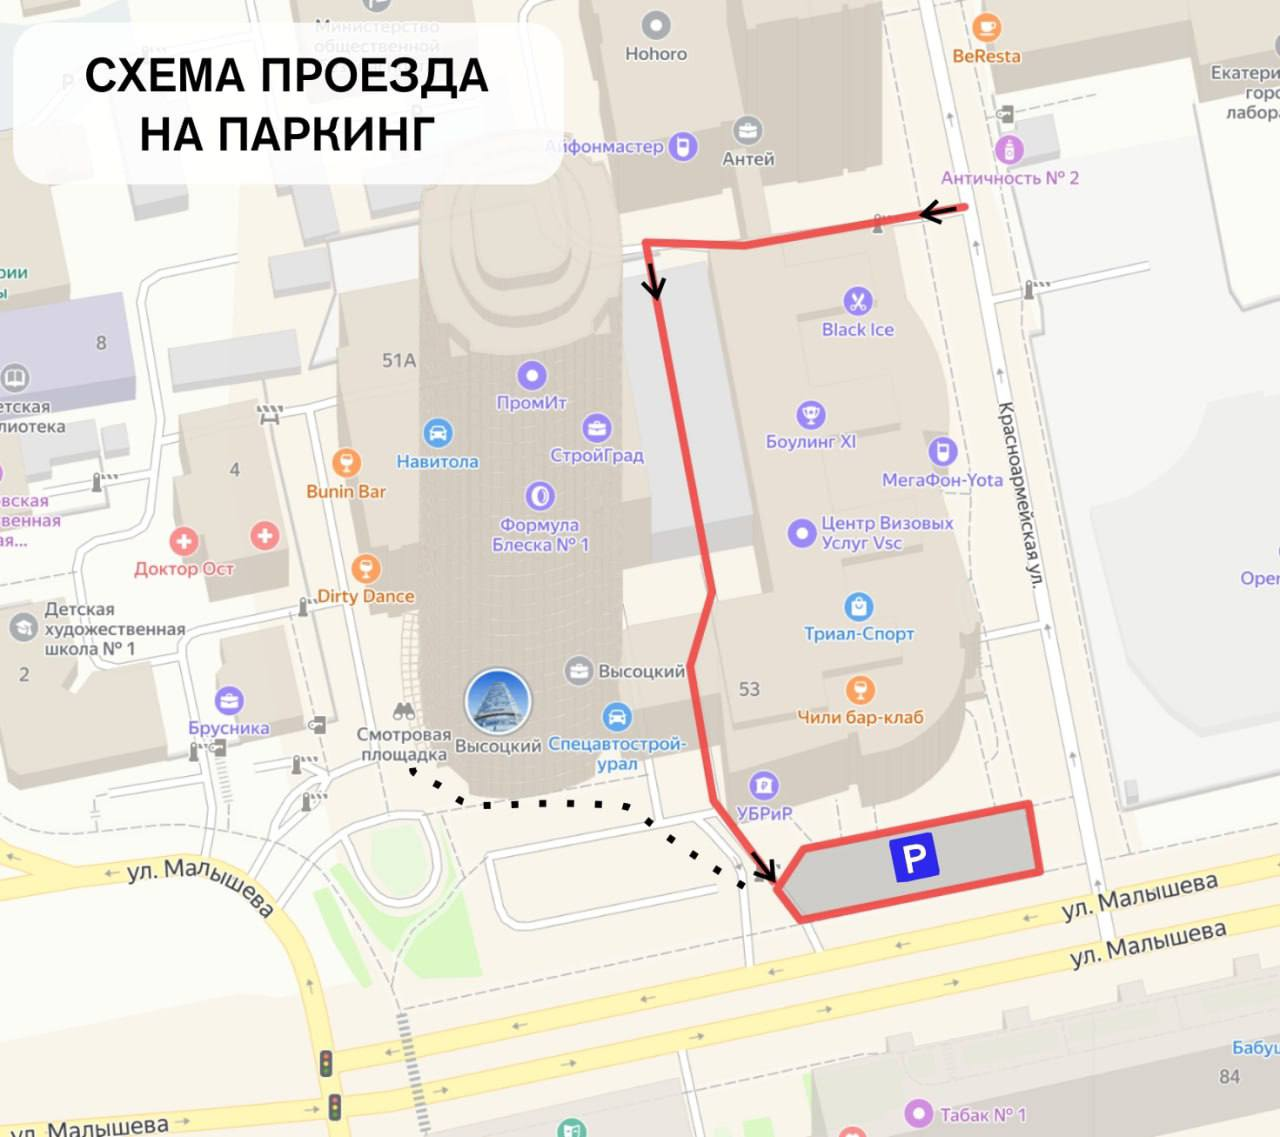
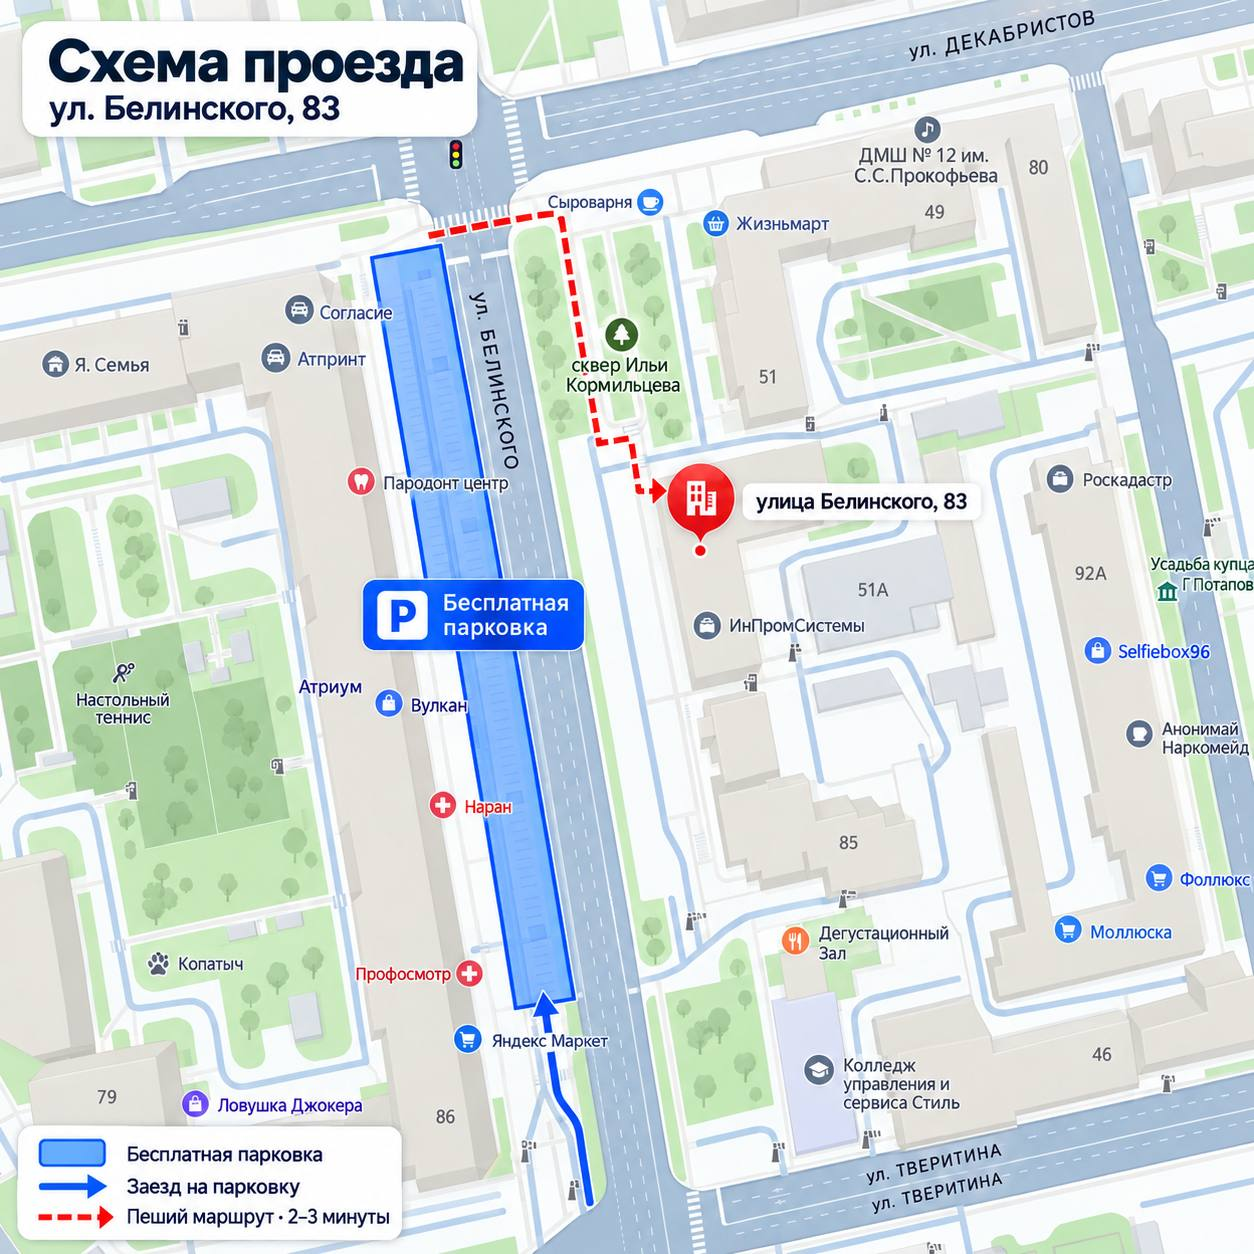
new office

diff --git a/app/office_cards.py b/app/office_cards.py
@@ -8,17 +8,20 @@ OFFICE_CARDS: dict[str, OfficeCard] = {
     "екб": OfficeCard(
         command="екб",
         photo_file_id=None,
-        image_path=None,
+        image_path=Path("images/ekb_office.jpeg"),
         caption=(
             "📍 <b>Адрес офиса</b>\n"
             "г. Екатеринбург, ул. <b>Белинского, 83</b>\n"
             "18 этаж, офис 14\n\n"
             "🚗 <b>Бесплатный паркинг</b>\n"
-            "Находится по адресу: <b>ул. Белинского, 86</b>\n"
-            "в здании через дорогу от офиса.\n"
-            "В ближайшее время также будет доступен паркинг\n"
-            "непосредственно под офисом.\n\n"
-            "🔔 <b>Для входа в офис назовите номер заявки в домофон</b>"
+            "Для наших клиентов доступна бесплатная\n"
+            "парковка на 1 час по адресу: <b>ул. Белинского, 86</b>\n"
+            "через дорогу от офиса.\n"
+            "Въезд на парковку — со стороны перекрёстка\n"
+            "<b>ул. Белинского</b> и <b>ул. Тверитина.</b>\n\n"
+            "В ближайшее время также будет доступна\n"
+            "парковка непосредственно под офисом.\n\n"
+            "🔔 <b>Для входа в офис назовите номер заявки в домофон.</b>"
         ),
     ),
     "члб": OfficeCard(

diff --git a/tests/unit/test_office_cards.py b/tests/unit/test_office_cards.py
@@ -1,0 +1,51 @@
+from __future__ import annotations
+
+import logging
+import re
+from types import SimpleNamespace
+from unittest.mock import AsyncMock
+
+from app.office_cards import OFFICE_CARDS
+from handlers.office_cards import OfficeCard, OfficeCardsHandler
+
+
+async def test_local_office_photo_logs_telegram_file_id(
+    tmp_path,
+    caplog,
+) -> None:
+    image_path = tmp_path / "office.jpg"
+    image_path.write_bytes(b"test image")
+    handler = OfficeCardsHandler(
+        {
+            "екб": OfficeCard(
+                command="екб",
+                caption="Офис",
+                photo_file_id=None,
+                image_path=image_path,
+            )
+        }
+    )
+    message = SimpleNamespace(
+        text="/екб",
+        answer=AsyncMock(),
+        answer_photo=AsyncMock(
+            return_value=SimpleNamespace(
+                photo=[SimpleNamespace(file_id="telegram-office-file-id")]
+            )
+        ),
+    )
+
+    with caplog.at_level(logging.WARNING, logger="handlers.office_cards"):
+        await handler._send_card(message)
+
+    assert "command=/екб" in caplog.text
+    assert "uploaded_photo_file_id=telegram-office-file-id" in caplog.text
+
+
+def test_office_card_html_has_balanced_supported_tags() -> None:
+    for command, card in OFFICE_CARDS.items():
+        assert "<\\" not in card.caption, command
+        assert card.caption.count("<b>") == card.caption.count("</b>"), command
+        assert len(re.findall(r"<a\s+[^>]*>", card.caption)) == card.caption.count(
+            "</a>"
+        ), command

diff --git a/handlers/office_cards.py b/handlers/office_cards.py
@@ -87,7 +87,19 @@ class OfficeCardsHandler:
 
             if sent.photo:
                 fid = sent.photo[-1].file_id
-                log.debug("office_cards command=/%s file_id=%s", cmd, fid)
+                log.warning(
+                    "office_cards photo_file_id is not configured: "
+                    "command=/%s uploaded_photo_file_id=%s",
+                    cmd,
+                    fid,
+                )
+            else:
+                log.warning(
+                    "office_cards photo_file_id is not configured and Telegram "
+                    "returned no photo sizes: command=/%s image_path=%s",
+                    cmd,
+                    card.image_path,
+                )
             return
 
         # 3) если картинки нет — просто отправляем текст
